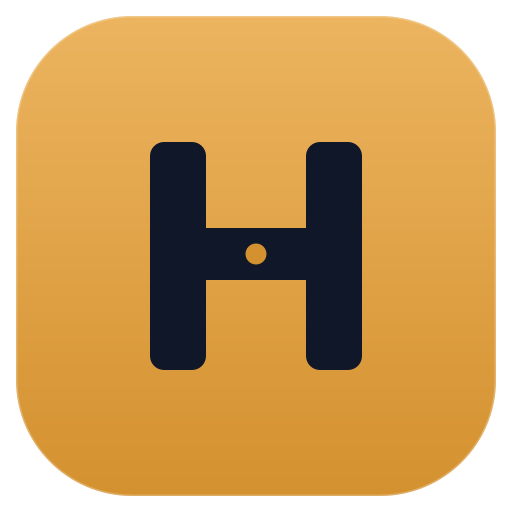
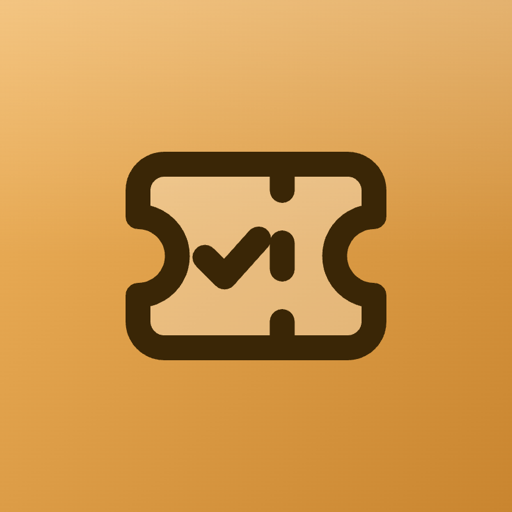
fix

diff --git a/helmdesk-ui/src/components/Logo.jsx b/helmdesk-ui/src/components/Logo.jsx
@@ -1,31 +1,26 @@
 import React from 'react';
 
 /**
- * HelpDesk icon mark — the amber tile with an "H" whose crossbar carries a helm hub.
+ * HelpDesk icon mark — the amber tile with a ticket stub carrying a check.
  * Inline SVG so it scales crisply at any size and needs no asset request. Mirrors public/icon.svg
- * (the file uploaded to the GHL marketplace listing) so the in-app brand matches the listing exactly.
+ * (the vector of the icon uploaded to the GHL marketplace listing) so the in-app brand matches it.
  */
-export function LogoMark({ size = 32, hub = true }) {
+export function LogoMark({ size = 32 }) {
+  const gid = `hd-amber-${React.useId().replace(/:/g, '')}`;
   return (
-    <svg width={size} height={size} viewBox="0 0 112 112" role="img" aria-label="HelpDesk" style={{ display: 'block', flex: 'none' }}>
+    <svg width={size} height={size} viewBox="0 0 800 800" role="img" aria-label="HelpDesk" style={{ display: 'block', flex: 'none' }}>
       <defs>
-        <linearGradient id="hd-amber" x1="0" y1="0" x2="0" y2="1">
-          <stop offset="0" stopColor="#ECB45F" />
-          <stop offset="1" stopColor="#D4912F" />
+        <linearGradient id={gid} x1="0" y1="0" x2="1" y2="1">
+          <stop offset="0" stopColor="#F0C27E" />
+          <stop offset="1" stopColor="#CF8732" />
         </linearGradient>
       </defs>
-      <rect x="4" y="4" width="104" height="104" rx="26" fill="url(#hd-amber)" />
-      <g fill="#0F1729">
-        <rect x="34" y="32" width="12" height="48" rx="3" />
-        <rect x="66" y="32" width="12" height="48" rx="3" />
-        <rect x="40" y="50" width="32" height="11" rx="3" />
+      <rect width="800" height="800" rx="180" fill={`url(#${gid})`} />
+      <g fill="none" stroke="#3A2408" strokeWidth="38" strokeLinecap="round" strokeLinejoin="round">
+        <path d="M260 255H540A45 45 0 0 1 585 300V338A62 62 0 0 0 585 462V500A45 45 0 0 1 540 545H260A45 45 0 0 1 215 500V462A62 62 0 0 0 215 338V300A45 45 0 0 1 260 255Z" fill="#F3D3A0" fillOpacity="0.55" />
+        <path d="M440 260V300M440 370V430M440 500V540" />
+        <path d="M318 398L352 432L408 372" />
       </g>
-      {hub && (
-        <>
-          <circle cx="56" cy="55.5" r="5.2" fill="#0F1729" />
-          <circle cx="56" cy="55.5" r="2.2" fill="#D4912F" />
-        </>
-      )}
     </svg>
   );
 }

diff --git a/helmdesk-api/src/routes/oauth.js b/helmdesk-api/src/routes/oauth.js
@@ -213,11 +213,13 @@ router.get('/status', async (req, res) => {
 });
 
 // HelpDesk icon mark (matches helmdesk-ui/public/icon.svg and the marketplace listing).
-const LOGO_SVG = `<svg width="56" height="56" viewBox="0 0 112 112" aria-label="HelpDesk" style="display:block;margin:0 auto 20px">
-  <defs><linearGradient id="a" x1="0" y1="0" x2="0" y2="1"><stop offset="0" stop-color="#ECB45F"/><stop offset="1" stop-color="#D4912F"/></linearGradient></defs>
-  <rect x="4" y="4" width="104" height="104" rx="26" fill="url(#a)"/>
-  <g fill="#0F1729"><rect x="34" y="32" width="12" height="48" rx="3"/><rect x="66" y="32" width="12" height="48" rx="3"/><rect x="40" y="50" width="32" height="11" rx="3"/></g>
-  <circle cx="56" cy="55.5" r="5.2" fill="#0F1729"/><circle cx="56" cy="55.5" r="2.2" fill="#D4912F"/>
+const LOGO_SVG = `<svg width="56" height="56" viewBox="0 0 800 800" aria-label="HelpDesk" style="display:block;margin:0 auto 20px">
+  <defs><linearGradient id="a" x1="0" y1="0" x2="1" y2="1"><stop offset="0" stop-color="#F0C27E"/><stop offset="1" stop-color="#CF8732"/></linearGradient></defs>
+  <rect width="800" height="800" rx="180" fill="url(#a)"/>
+  <g fill="none" stroke="#3A2408" stroke-width="38" stroke-linecap="round" stroke-linejoin="round">
+    <path d="M260 255H540A45 45 0 0 1 585 300V338A62 62 0 0 0 585 462V500A45 45 0 0 1 540 545H260A45 45 0 0 1 215 500V462A62 62 0 0 0 215 338V300A45 45 0 0 1 260 255Z" fill="#F3D3A0" fill-opacity="0.55"/>
+    <path d="M440 260V300M440 370V430M440 500V540"/><path d="M318 398L352 432L408 372"/>
+  </g>
 </svg>`;
 
 function renderSuccessPage({ already = false, upgrade = false } = {}) {

diff --git a/helmdesk-ui/src/pages/TicketDetail.jsx b/helmdesk-ui/src/pages/TicketDetail.jsx
@@ -1,6 +1,6 @@
 import React, { useEffect, useState, useCallback, useRef } from 'react';
 import { api } from '../lib/api.js';
-import { ago, agoFull, slaDisplay, STATUS_LABEL, PRIORITY_LABEL, labelChannel, isCustomProviderChannel, cleanMessageText } from '../lib/format.js';
+import { ago, agoFull, slaDisplay, STATUS_LABEL, PRIORITY_LABEL, labelChannel, labelSource, isCustomProviderChannel, cleanMessageText } from '../lib/format.js';
 import { looksLikeHtml } from '../lib/sanitizeHtml.js';
 import EmailFrame from '../components/EmailFrame.jsx';
 import MessageEmail from '../components/MessageEmail.jsx';
@@ -236,7 +236,7 @@ export default function TicketDetail({ id, onBack, user, notify, onChange }) {
                   )}
                 </span>
               </div>
-              <div className="kv"><span className="k">Source</span><span style={{ textTransform: 'capitalize' }}>{ticket.source}</span></div>
+              <div className="kv"><span className="k">Source</span><span>{labelSource(ticket.source)}</span></div>
               <div className="kv"><span className="k">Opened</span><span title={agoFull(ticket.createdAt)} style={{ cursor: 'help' }}>{ago(ticket.createdAt)}</span></div>
               <div className="kv"><span className="k">Messages</span><span>{ticket.messageCount}</span></div>
             </div>

diff --git a/helmdesk-ui/src/pages/Inbox.jsx b/helmdesk-ui/src/pages/Inbox.jsx
@@ -1,6 +1,6 @@
 import React, { useEffect, useState, useCallback } from 'react';
 import { api } from '../lib/api.js';
-import { ago, agoFull, slaDisplay, STATUS_LABEL, PRIORITY_LABEL, labelChannel, isCustomProviderChannel, cleanMessageText } from '../lib/format.js';
+import { ago, agoFull, slaDisplay, STATUS_LABEL, PRIORITY_LABEL, labelChannel, labelSource, isCustomProviderChannel, cleanMessageText } from '../lib/format.js';
 import { looksLikeHtml } from '../lib/sanitizeHtml.js';
 import EmailFrame from '../components/EmailFrame.jsx';
 import MessageEmail from '../components/MessageEmail.jsx';
@@ -478,6 +478,7 @@ function TicketPanes({ id, isAdmin, notify, onChanged, rightOpen = true, toggleR
               )}
             </span>
           </div>
+          <div className="kv"><span className="k">Source</span><span>{labelSource(ticket.source)}</span></div>
           <div className="kv"><span className="k">Opened</span><span title={agoFull(ticket.createdAt)} style={{ cursor: 'help' }}>{ago(ticket.createdAt)}</span></div>
           <div className="kv"><span className="k">Messages</span><span>{ticket.messageCount}</span></div>
         </div>

diff --git a/helmdesk-ui/src/lib/format.js b/helmdesk-ui/src/lib/format.js
@@ -17,6 +17,16 @@ export const CHANNELS = [
 ];
 
 /** Friendly channel label (shared across Queue, Board, TicketDetail). */
+/** How a ticket was created, in words an agent recognizes. */
+export const SOURCE_LABEL = {
+  portal: 'Form submission',
+  manual: 'Created manually',
+  inbound: 'Inbound message (auto)'
+};
+export function labelSource(s) {
+  return SOURCE_LABEL[s] || (s ? s.charAt(0).toUpperCase() + s.slice(1) : '—');
+}
+
 export function labelChannel(c) {
   return {
     SMS: 'SMS', Email: 'Email', WhatsApp: 'WhatsApp', FB: 'Facebook', IG: 'Instagram',
